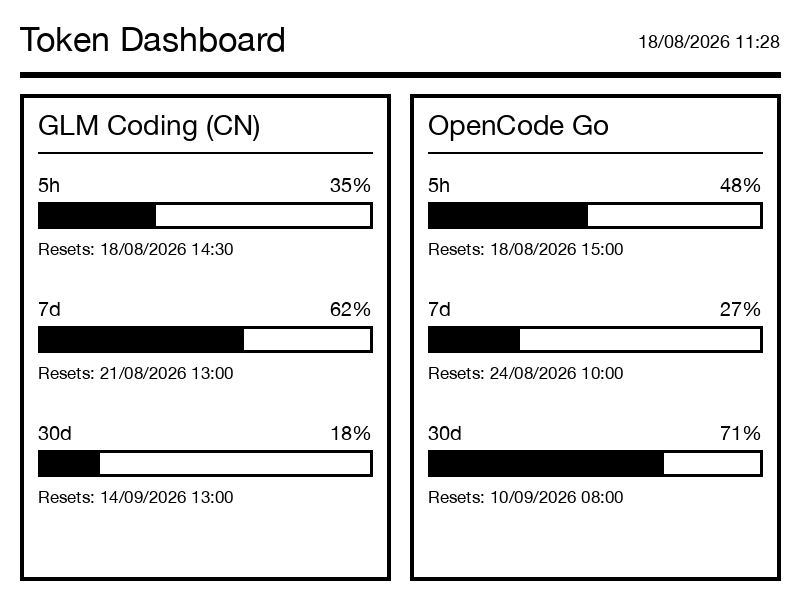
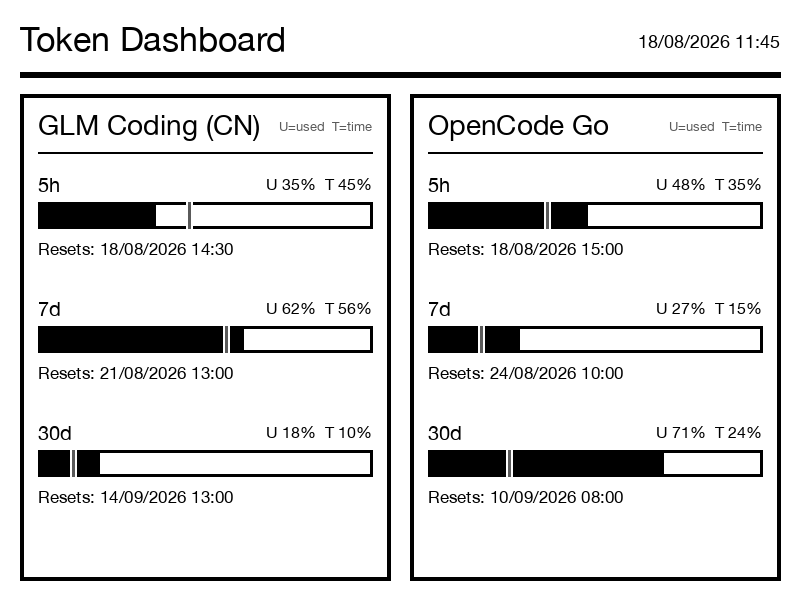
Compare quota use with elapsed window time

diff --git a/bin/kindle-usage-png.py b/bin/kindle-usage-png.py
@@ -2,9 +2,9 @@
 """Render GLM CN and OpenCode Go quotas in a Kindle-sized token dashboard.
 
 The visual layout borrows the reference Kindle dashboard: title and timestamp,
-a heavy rule, bordered provider cards, percentage rows, progress bars, and reset
-labels. The working canvas is 800x600 landscape and is rotated to a 600x800
-Kindle PNG by default.
+a heavy rule, bordered provider cards, black usage fills, gray time markers,
+and reset labels. The working canvas is 800x600 landscape and is rotated to a
+600x800 Kindle PNG by default.
 """
 from __future__ import annotations
 
@@ -12,6 +12,7 @@ import argparse
 import json
 import os
 import sys
+import time
 from datetime import datetime
 from pathlib import Path
 
@@ -53,7 +54,7 @@ def format_percent(value) -> str:
         number = float(value)
     except (TypeError, ValueError):
         return "-"
-    return f"{number:g}%"
+    return f"{int(round(number))}%"
 
 
 def numeric_percent(value) -> float | None:
@@ -70,6 +71,21 @@ def format_reset(reset_ms) -> str:
         return "-"
 
 
+def time_progress(reset_ms, duration_seconds: int, now_ms=None) -> float | None:
+    """Return elapsed percentage for a window ending at reset_ms."""
+    if reset_ms is None or duration_seconds <= 0:
+        return None
+    try:
+        reset = float(reset_ms)
+        now = time.time() * 1000 if now_ms is None else float(now_ms)
+    except (TypeError, ValueError):
+        return None
+    # ponytail: infer the start from the displayed 5h/7d/30d duration; exact
+    # rolling/calendar-window starts would require provider start timestamps.
+    duration_ms = duration_seconds * 1000
+    return max(0.0, min(100.0, (now - (reset - duration_ms)) / duration_ms * 100.0))
+
+
 def truncate(draw: ImageDraw.ImageDraw, text: str, text_font, max_width: int) -> str:
     if draw.textlength(text, font=text_font) <= max_width:
         return text
@@ -79,9 +95,9 @@ def truncate(draw: ImageDraw.ImageDraw, text: str, text_font, max_width: int) ->
     return text + suffix
 
 
-def draw_progress(draw: ImageDraw.ImageDraw, x: int, y: int, width: int, height: int, percent: float | None) -> None:
+def draw_progress(draw: ImageDraw.ImageDraw, x: int, y: int, width: int, height: int, percent: float | None, fill=FG, outline=FG) -> None:
     border = 3
-    draw.rectangle((x, y, x + width, y + height), outline=FG, width=border)
+    draw.rectangle((x, y, x + width, y + height), outline=outline, width=border)
     if percent is None or percent <= 0:
         return
     inner_width = width - 2 * border
@@ -89,8 +105,19 @@ def draw_progress(draw: ImageDraw.ImageDraw, x: int, y: int, width: int, height:
     if fill_width:
         draw.rectangle(
             (x + border, y + border, x + border + fill_width - 1, y + height - border),
-            fill=FG,
+            fill=fill,
         )
+
+
+def draw_time_marker(draw: ImageDraw.ImageDraw, x: int, y: int, width: int, height: int, percent: float | None) -> None:
+    if percent is None:
+        return
+    border = 3
+    marker_x = x + round((width - 2 * border) * percent / 100) + border
+    marker_x = max(x + border, min(x + width - border, marker_x))
+    # White halo keeps the gray marker visible when it falls inside the black usage fill.
+    draw.rectangle((marker_x - 3, y, marker_x + 3, y + height), fill=BG)
+    draw.rectangle((marker_x - 1, y, marker_x + 1, y + height), fill=MUTED)
 
 
 def draw_reset(draw: ImageDraw.ImageDraw, x: int, y: int, reset_ms, regular, bold) -> None:
@@ -101,10 +128,13 @@ def draw_reset(draw: ImageDraw.ImageDraw, x: int, y: int, reset_ms, regular, bol
     draw.text((x + prefix_width, y), value, font=bold, fill=FG)
 
 
-def draw_card(draw: ImageDraw.ImageDraw, x: int, y: int, width: int, height: int, title: str, provider: dict, title_font, label_font, regular, bold) -> None:
+def draw_card(draw: ImageDraw.ImageDraw, x: int, y: int, width: int, height: int, title: str, provider: dict, title_font, label_font, metric_font, legend_font, regular, bold) -> None:
     draw.rectangle((x, y, x + width, y + height), outline=FG, width=4)
     pad = 18
     draw.text((x + pad, y + 14), title, font=title_font, fill=FG)
+    legend = "U=used  T=time"
+    legend_width = draw.textlength(legend, font=legend_font)
+    draw.text((x + width - pad - legend_width, y + 24), legend, font=legend_font, fill=MUTED)
     draw.line((x + pad, y + 58, x + width - pad, y + 58), fill=FG, width=2)
 
     error = provider.get("error") if isinstance(provider, dict) else "unavailable"
@@ -115,29 +145,31 @@ def draw_card(draw: ImageDraw.ImageDraw, x: int, y: int, width: int, height: int
         return
 
     windows = (
-        ("5h", "fiveHour"),
-        ("7d", "weekly"),
-        ("30d", "monthly"),
+        ("5h", "fiveHour", 5 * 60 * 60),
+        ("7d", "weekly", 7 * 24 * 60 * 60),
+        ("30d", "monthly", 30 * 24 * 60 * 60),
     )
     if title == "OpenCode Go":
         windows = (
-            ("5h", "rolling"),
-            ("7d", "weekly"),
-            ("30d", "monthly"),
+            ("5h", "rolling", 5 * 60 * 60),
+            ("7d", "weekly", 7 * 24 * 60 * 60),
+            ("30d", "monthly", 30 * 24 * 60 * 60),
         )
 
     row_x = x + pad
     row_width = width - 2 * pad
     row_y = y + 78
     row_step = 124
-    for label, key in windows:
+    for label, key, duration_seconds in windows:
         item = provider.get(key) or {}
         percent = numeric_percent(item.get("percentage"))
+        elapsed = time_progress(item.get("resetMs"), duration_seconds)
         draw.text((row_x, row_y), label, font=label_font, fill=FG)
-        pct = format_percent(item.get("percentage"))
-        pct_width = draw.textlength(pct, font=label_font)
-        draw.text((row_x + row_width - pct_width, row_y), pct, font=label_font, fill=FG)
+        metrics = f"U {format_percent(item.get('percentage'))}  T {format_percent(elapsed)}"
+        metrics_width = draw.textlength(metrics, font=metric_font)
+        draw.text((row_x + row_width - metrics_width, row_y + 2), metrics, font=metric_font, fill=FG)
         draw_progress(draw, row_x, row_y + 30, row_width, 26, percent)
+        draw_time_marker(draw, row_x, row_y + 30, row_width, 26, elapsed)
         draw_reset(draw, row_x, row_y + 66, item.get("resetMs"), regular, bold)
         row_y += row_step
 
@@ -150,6 +182,8 @@ def render(usage: dict, output: Path, rotation: int = 270) -> None:
     stamp_font = font(FONT_REGULAR, 18)
     card_title_font = font(FONT_BOLD, 28)
     label_font = font(FONT_BOLD, 20)
+    metric_font = font(FONT_BOLD, 16)
+    legend_font = font(FONT_REGULAR, 13)
     regular = font(FONT_REGULAR, 17)
     bold = font(FONT_BOLD, 17)
 
@@ -161,8 +195,8 @@ def render(usage: dict, output: Path, rotation: int = 270) -> None:
 
     glm = usage.get("glm") or {"error": "no usage data"}
     go = usage.get("go") or {"error": "no usage data"}
-    draw_card(draw, MARGIN, CARD_Y, CARD_W, CARD_H, "GLM Coding (CN)", glm, card_title_font, label_font, regular, bold)
-    draw_card(draw, MARGIN + CARD_W + CARD_GAP, CARD_Y, CARD_W, CARD_H, "OpenCode Go", go, card_title_font, label_font, regular, bold)
+    draw_card(draw, MARGIN, CARD_Y, CARD_W, CARD_H, "GLM Coding (CN)", glm, card_title_font, label_font, metric_font, legend_font, regular, bold)
+    draw_card(draw, MARGIN + CARD_W + CARD_GAP, CARD_Y, CARD_W, CARD_H, "OpenCode Go", go, card_title_font, label_font, metric_font, legend_font, regular, bold)
 
     if rotation not in (0, 90, 180, 270):
         raise ValueError("rotation must be 0, 90, 180, or 270")

diff --git a/test/test_usage_dashboard.py b/test/test_usage_dashboard.py
@@ -34,4 +34,12 @@ with tempfile.TemporaryDirectory() as directory:
     assert sum(pixel < 128 for pixel in Image.open(landscape).getdata()) > 1000
     assert renderer.format_reset(1787018940183) != "-"
 
+    reset = 1_000_000
+    duration = 100_000
+    assert renderer.time_progress(reset, duration, now_ms=reset - duration * 1000) == 0
+    assert renderer.time_progress(reset, duration, now_ms=reset - duration * 500) == 50
+    assert renderer.time_progress(reset, duration, now_ms=reset) == 100
+    assert renderer.time_progress(None, duration, now_ms=reset) is None
+    assert renderer.time_progress(reset, 0, now_ms=reset) is None
+
 print("ok")

diff --git a/README.md b/README.md
@@ -5,9 +5,9 @@ A small Mac-side dashboard for a jailbroken Kindle. It displays usage for:
 - **GLM Coding (CN)** via `open.bigmodel.cn`
 - **OpenCode Go** via `opencode.ai/zen/go/v1/usage`
 
-The visual layout is inspired by the reference [`kindle-dashboard`](https://github.com/alexishida/kindle-dashboard): a title and timestamp, a heavy divider, bordered provider cards, percentage progress bars, and reset times. This repository is independently implemented; it does not copy source code or assets from that project and is not affiliated with or endorsed by it, Zhipu AI/GLM, or OpenCode.
+The visual layout is inspired by the reference [`kindle-dashboard`](https://github.com/alexishida/kindle-dashboard): a title and timestamp, a heavy divider, bordered provider cards, percentage progress bars, and reset times. Each quota bar uses black for **quota used** and a gray marker for **time elapsed**; the `U` and `T` percentages make the comparison explicit. This repository is independently implemented; it does not copy source code or assets from that project and is not affiliated with or endorsed by it, Zhipu AI/GLM, or OpenCode.
 
-The 800×600 landscape design is rotated into a 600×800 Kindle PNG.
+The 800×600 landscape design is rotated into a 600×800 Kindle PNG. The dashboard refreshes every five minutes so the time marker keeps moving even when quota values do not change.
 
 ## Preview
 
